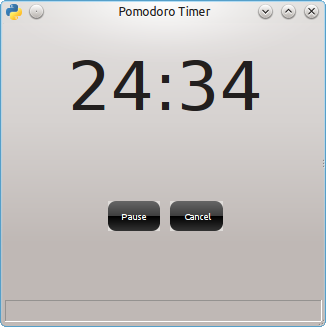
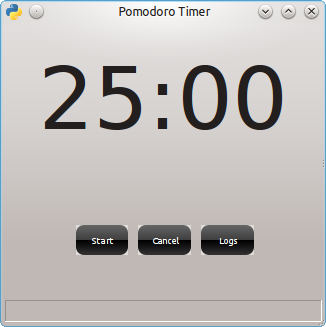
Completed the logging functionality

Changed region(s): [[0.2147, 0.6116, 0.7975, 0.7951], [0.1227, 0.1835, 0.5215, 0.3976], [0.5521, 0.1835, 0.8896, 0.3976]]

diff --git a/gui.py b/gui.py
@@ -26,9 +26,8 @@ class MainFrame(wx.Frame):
         
     def initialize_timer_label(self):
         self.timer_label_sizer = wx.BoxSizer(wx.HORIZONTAL)
-
         self.timer_label = wx.StaticText(self.panel, wx.ID_ANY)
-        font = wx.Font(50, wx.DECORATIVE, wx.BOLD, wx.NORMAL)
+        font = wx.Font(65, wx.DECORATIVE, wx.BOLD, wx.NORMAL)
         self.timer_label.SetFont(font)
 
     def initialize_buttons(self):
@@ -36,24 +35,34 @@ class MainFrame(wx.Frame):
         self.start_btn.Bind(wx.EVT_BUTTON, self.on_start)
         self.cancel_btn = GB.GradientButton(self.panel, wx.ID_ANY, label="Cancel")
         self.cancel_btn.Bind(wx.EVT_BUTTON, self.on_cancel)
+        self.log_btn = GB.GradientButton(self.panel, wx.ID_ANY, label="Logs")
+        self.log_btn.Bind(wx.EVT_BUTTON, self.on_log)
 
     def set_sizers(self):
         self.timer_label_sizer.Add((5,5),1)
-        self.timer_label_sizer.Add(self.timer_label, 3, wx.TOP, 25)
+        self.timer_label_sizer.Add(self.timer_label, 7, wx.TOP, 25)
         self.timer_label_sizer.Add((5,5),1)
         self.sizer.Add(self.timer_label_sizer)
 
         hsizer = wx.BoxSizer(wx.HORIZONTAL)
-        hsizer.Add((0,0), 10)        
+        hsizer.Add((0,0), 7)        
         hsizer.Add(self.start_btn, 5, flag=wx.TOP, border=75)
         hsizer.Add((0,0), 1)
-        hsizer.Add(self.cancel_btn,5, flag=wx.TOP, border=75)                
+        hsizer.Add(self.cancel_btn,5, flag=wx.TOP, border=75)
+        hsizer.Add((0,0), 1)
+        hsizer.Add(self.log_btn, 5, flag=wx.TOP, border=75)        
         hsizer.Add((0,0), 3)
         self.sizer.Add(hsizer)
         self.panel.SetSizer(self.sizer) 
 
     def initialize_status_bar(self):
         self.status_bar = self.CreateStatusBar()
+
+    def set_defaults(self):
+        self.start_btn.SetLabel("Start")
+        self.timer_label.SetLabel(self.current_timer.formatted_time_left())
+        self.status_bar.SetStatusText("")
+        self.Refresh()
         
     def on_start(self, event):
         btnLabel = self.start_btn.GetLabel()
@@ -64,23 +73,47 @@ class MainFrame(wx.Frame):
             self.pomodoro_timer.Stop()
             self.start_btn.SetLabel("Start")
 
-    def set_defaults(self):
-        self.start_btn.SetLabel("Start")
-        self.timer_label.SetLabel(self.current_timer.formatted_time_left())
-        self.status_bar.SetStatusText("")
-        self.Refresh()
-
     def on_cancel(self, event):
         self.pomodoro_timer.reset()        
         self.start_btn.SetLabel("Start")        
         self.set_defaults()
         self.Refresh()
 
+    def on_log(self, event):
+        LogDialog(self).Show()
+
     def initialize_media_player(self):
         self.media_player = wx.media.MediaCtrl(self)
         path = os.path.dirname(os.path.abspath(__file__)) + "/sounds/alarm-clock.wav"
         self.media_player.Load(path)
 
+class LogDialog(wx.Dialog):
+     def __init__(self, *args, **kw):
+         wx.Dialog.__init__(self, *args, **kw)
+         self.initialize_options()
+         self.initialize_sizer()
+         self.display_logs()
+
+     def initialize_options(self):
+         self.SetSize((250, 200))
+         self.SetTitle("Completed Pomodoros")
+         self.Center()
+
+     def initialize_sizer(self):
+         self.sizer = wx.BoxSizer(wx.VERTICAL)
+         self.SetSizer(self.sizer)
+
+     def display_logs(self):
+         logs = PomodoroLog.get_logs()
+         font = wx.Font(15, wx.MODERN, wx.BOLD, wx.NORMAL)
+         today_lbl = wx.StaticText(self, wx.ID_ANY,  "Today: %s" % logs[0])
+         this_week_lbl = wx.StaticText(self, wx.ID_ANY,  "This Week: %s" % logs[1])
+         all_time_lbl =  wx.StaticText(self, wx.ID_ANY,  "All Time: %s" % logs[2])
+         lbls = [today_lbl, this_week_lbl, all_time_lbl]
+         for lbl in lbls:
+             lbl.SetFont(font)
+             self.sizer.Add(lbl, 1, wx.ALL, 20)
+            
 if __name__ == "__main__":
     app = wx.PySimpleApp()
     frame = MainFrame().Show()

diff --git a/pomodoro.py b/pomodoro.py
@@ -1,5 +1,41 @@
 import wx
+import datetime
+from time import strptime
+from sqlalchemy import create_engine
+from sqlalchemy import Column, Integer, Date
+from sqlalchemy.ext.declarative import declarative_base
+from sqlalchemy.orm import sessionmaker
+ 
+Engine = create_engine('sqlite:///pomodoros.db', echo=False)
+Base = declarative_base()
 
+def get_first_day_of_week(date):
+    day_of_week = datetime.date(*strptime(str(date), '%Y-%m-%d')[0:3]).weekday()
+    start = date - datetime.timedelta(days=day_of_week)
+    end = date + datetime.timedelta(days=6 - day_of_week)
+    return start,end
+
+class PomodoroLog(Base):
+    __tablename__ = "pomodorologs"
+ 
+    id = Column(Integer, primary_key=True)
+    completed_at = Column(Date, default=datetime.date.today())
+
+    def __init__(self, completed_at=None):
+        if completed_at is not None: self.completed_at = completed_at
+        
+    @staticmethod
+    def get_logs():
+        today = Session.query(PomodoroLog).filter(PomodoroLog.completed_at == datetime.date.today()).count()
+        start, end = get_first_day_of_week(datetime.date.today())
+        this_week = Session.query(PomodoroLog).filter(PomodoroLog.completed_at.between(start, end)).count()
+        all_time = Session.query(PomodoroLog).count()
+        return [today, this_week, all_time]
+    
+Base.metadata.create_all(Engine)
+SessionMaker = sessionmaker(bind=Engine)
+Session = SessionMaker()
+ 
 class TimeDuration(wx.Timer):
     Duration = 0
     
@@ -59,3 +95,5 @@ class Break(TimeDuration):
         self.parent.current_timer = self.parent.pomodoro_timer
         self.parent.set_defaults()
         self.parent.media_player.Play()
+        Session.add(PomodoroLog())
+        Session.commit()

diff --git a/README.md b/README.md
@@ -3,6 +3,7 @@ Pomodoro Timer
 
 A simple Pomodoro time tracking application written in WxPython.
 
-Screenshot:
+Screenshot
+==========
 
 ![ScreenShot](https://raw.github.com/raphonic/pomodorotimer/master/screenshots/screenshot.png)
